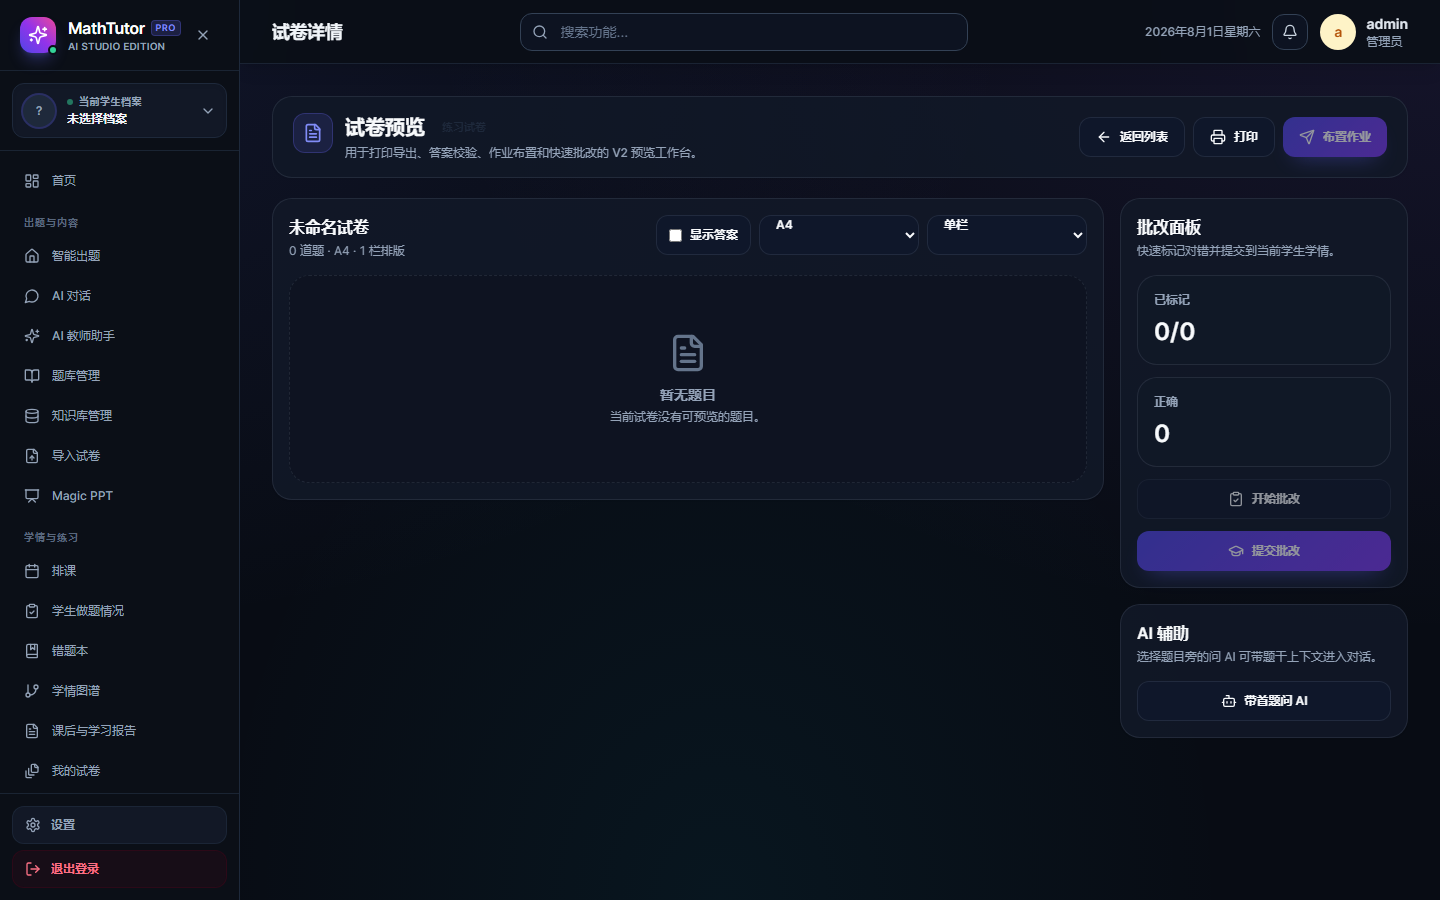
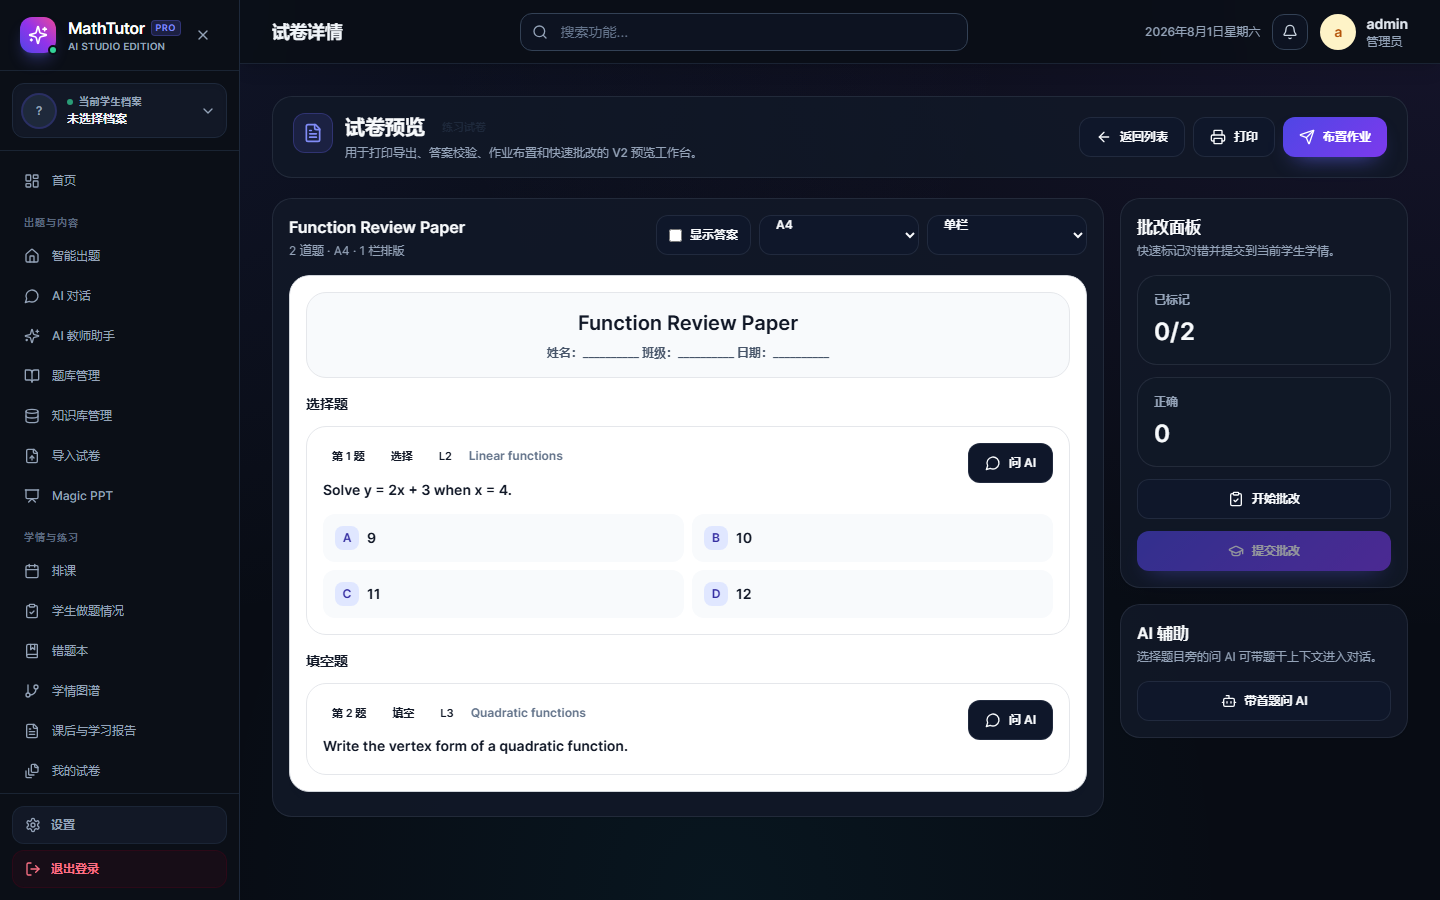
fix(ui): keep exam preview paper white across themes

diff --git a/MathTutor_System/frontend/src/pages/ExamPreview.test.jsx b/MathTutor_System/frontend/src/pages/ExamPreview.test.jsx
@@ -1,4 +1,6 @@
 import { afterEach, beforeEach, describe, expect, it, vi } from 'vitest'
+import { readFileSync } from 'node:fs'
+import { join } from 'node:path'
 import { cleanup, render, screen, waitFor } from '@testing-library/react'
 import userEvent from '@testing-library/user-event'
 import { MemoryRouter, Route, Routes } from 'react-router-dom'
@@ -23,7 +25,7 @@ vi.mock('react-router-dom', async () => {
 vi.mock('react-hot-toast', () => ({ default: toast }))
 vi.mock('../services/api', () => api)
 vi.mock('../contexts/StudentContext', () => ({
-  useStudent: () => ({ currentStudent: { id: 7, name: '学生A' } }),
+  useStudent: () => ({ currentStudent: { id: 7, name: 'Student A' } }),
 }))
 vi.mock('../components/StudentSelectorModal', () => ({
   default: ({ open }) => (open ? <div data-testid="student-selector-modal" /> : null),
@@ -34,12 +36,31 @@ vi.mock('../components/KnowledgeCard', () => ({
 
 const exam = {
   id: 12,
-  title: '函数周测',
+  title: 'Function Quiz',
   questions: [
-    { id: 1, content: '一次函数题', type: 'choice', options: ['1', '2'], answer: '2', analysis: '代入', knowledge_point: '一次函数', difficulty: 'L2' },
-    { id: 2, content: '化简题', type: 'fill', answer: '8x', analysis: '展开', knowledge_point: '整式运算', difficulty: 'L3' },
+    {
+      id: 1,
+      content: 'Linear function prompt',
+      type: 'choice',
+      options: ['1', '2'],
+      answer: '2',
+      analysis: 'Substitute',
+      knowledge_point: 'Linear functions',
+      difficulty: 'L2',
+    },
+    {
+      id: 2,
+      content: 'Simplify expression',
+      type: 'fill',
+      answer: '8x',
+      analysis: 'Expand',
+      knowledge_point: 'Algebra',
+      difficulty: 'L3',
+    },
   ],
 }
+
+const css = readFileSync(join(process.cwd(), 'src/index.css'), 'utf8')
 
 function renderRoute(initialEntries = ['/exams/12'], state) {
   return render(
@@ -64,38 +85,71 @@ afterEach(() => {
 
 describe('ExamPreview', () => {
   it('loads exam preview and toggles answers', async () => {
-    renderRoute()
+    const { container } = renderRoute()
 
-    expect((await screen.findAllByText('函数周测')).length).toBeGreaterThan(0)
-    expect(screen.getByText('一次函数题')).toBeInTheDocument()
+    expect((await screen.findAllByText('Function Quiz')).length).toBeGreaterThan(0)
+    expect(screen.getByText('Linear function prompt')).toBeInTheDocument()
 
-    await userEvent.click(screen.getByLabelText(/显示答案/))
-    expect(screen.getAllByText('答案').length).toBeGreaterThan(0)
-    expect(screen.getByText('代入')).toBeInTheDocument()
+    await userEvent.click(container.querySelector('.v2-toggle input'))
+    expect(screen.getAllByText('2').length).toBeGreaterThan(0)
+    expect(screen.getByText('Substitute')).toBeInTheDocument()
+  })
+
+  it('renders A4 preview inside a dedicated white paper surface', async () => {
+    const { container } = renderRoute()
+
+    const frame = await screen.findByTestId('exam-preview-paper-frame')
+    const paper = await screen.findByTestId('exam-preview-paper')
+    expect(frame).toHaveClass('v2-preview-paper-frame')
+    expect(paper).toHaveClass('v2-preview-paper', 'a4', 'columns-1')
+    expect(paper).not.toHaveClass('v2-section-card')
+    expect(container.querySelector('.v2-preview-paper-header')).toBeInTheDocument()
+    expect(container.querySelectorAll('.v2-preview-question')).toHaveLength(2)
+  })
+
+  it('keeps paper styling independent from dark theme panel variables', () => {
+    const paperRule = css.match(/\.v2-preview-paper\s*\{[^}]+\}/)?.[0] ?? ''
+    const frameRule = css.match(/\.v2-preview-paper-frame\s*\{\s*@apply[^}]+\}/)?.[0] ?? ''
+
+    expect(paperRule).toContain('background: #ffffff')
+    expect(paperRule).toContain('color: #111827')
+    expect(paperRule).toContain('color-scheme: light')
+    expect(paperRule).not.toContain('var(--color-bg-panel)')
+    expect(frameRule).toContain('overflow-x-auto')
+  })
+
+  it('shows empty state without rendering a paper when there are no questions', async () => {
+    api.getExam.mockResolvedValueOnce({ data: { ...exam, questions: [] } })
+    const emptyRender = renderRoute()
+
+    await waitFor(() => expect(emptyRender.container.querySelector('.v2-state')).toBeInTheDocument())
+    expect(screen.queryByTestId('exam-preview-paper')).not.toBeInTheDocument()
+    expect(emptyRender.container.querySelector('.v2-btn-primary')).toBeDisabled()
   })
 
   it('submits grading results', async () => {
-    renderRoute()
-    await screen.findAllByText('函数周测')
+    const { container } = renderRoute()
+    await screen.findByTestId('exam-preview-paper')
 
-    await userEvent.click(screen.getByRole('button', { name: /开始批改/ }))
-    await userEvent.click(screen.getAllByRole('button', { name: '对' })[0])
-    await userEvent.click(screen.getByRole('button', { name: /提交批改/ }))
+    const sideButtons = container.querySelectorAll('aside button')
+    await userEvent.click(sideButtons[0])
+    await userEvent.click(container.querySelectorAll('.v2-mark-button')[0])
+    await userEvent.click(sideButtons[1])
 
     await waitFor(() => expect(api.gradeExam).toHaveBeenCalledWith(12, expect.objectContaining({ student_id: 7 })))
-    expect(toast.success).toHaveBeenCalledWith('批改结果已提交')
+    expect(toast.success).toHaveBeenCalled()
   })
 
   it('saves compose mode preview', async () => {
-    renderRoute(['/exams/compose'], {
-      composeTitle: '临时组卷',
-      composeQuestions: [{ content: '组卷题', answer: 'A' }],
+    const { container } = renderRoute(['/exams/compose'], {
+      composeTitle: 'Compose Quiz',
+      composeQuestions: [{ content: 'Compose prompt', answer: 'A' }],
     })
 
-    expect((await screen.findAllByText('临时组卷')).length).toBeGreaterThan(0)
-    await userEvent.click(screen.getByRole('button', { name: /保存试卷/ }))
+    expect((await screen.findAllByText('Compose Quiz')).length).toBeGreaterThan(0)
+    await userEvent.click(container.querySelector('.v2-page-actions button.v2-btn-secondary'))
 
-    await waitFor(() => expect(api.saveExam).toHaveBeenCalledWith(expect.objectContaining({ title: '临时组卷' })))
+    await waitFor(() => expect(api.saveExam).toHaveBeenCalledWith(expect.objectContaining({ title: 'Compose Quiz' })))
     expect(navigate).toHaveBeenCalledWith('/exams/99', { replace: true })
   })
 

diff --git a/MathTutor_System/frontend/src/pages/ExamPreview.jsx b/MathTutor_System/frontend/src/pages/ExamPreview.jsx
@@ -341,34 +341,36 @@ export default function ExamPreview() {
             {questions.length === 0 ? (
               <EmptyState icon={FileText} title="暂无题目" description="当前试卷没有可预览的题目。" />
             ) : (
-              <div className={`v2-preview-paper ${layout.paperSize.toLowerCase()} columns-${layout.columns}`} data-show-answer={layout.showAnswer}>
-                {layout.showHeader && (
-                  <header className="v2-preview-paper-header">
-                    <h2>{title}</h2>
-                    <p>姓名：__________ 班级：__________ 日期：__________</p>
-                  </header>
-                )}
-                {Object.entries(grouped).map(([groupName, items]) => (
-                  items.length > 0 && (
-                    <section key={groupName} className="space-y-3">
-                      <h3 className="v2-preview-group-title">{groupName}题</h3>
-                      {items.map(({ question, index }) => (
-                        <QuestionPreview
-                          key={question.id ?? index}
-                          question={question}
-                          index={index}
-                          showAnswer={layout.showAnswer}
-                          grading={grading}
-                          marked={gradingResults[index]}
-                          errorType={gradingErrorTypes[index]}
-                          onMark={(isCorrect) => handleMark(index, isCorrect)}
-                          onErrorType={(errorType) => setGradingErrorTypes((prev) => ({ ...prev, [index]: errorType }))}
-                          onAskAI={() => navigate('/chat', { state: { contextQuestion: buildQuestionTextForChat(question) } })}
-                        />
-                      ))}
-                    </section>
-                  )
-                ))}
+              <div className="v2-preview-paper-frame" data-testid="exam-preview-paper-frame">
+                <div className={`v2-preview-paper ${layout.paperSize.toLowerCase()} columns-${layout.columns}`} data-show-answer={layout.showAnswer} data-testid="exam-preview-paper">
+                  {layout.showHeader && (
+                    <header className="v2-preview-paper-header">
+                      <h2>{title}</h2>
+                      <p>姓名：__________ 班级：__________ 日期：__________</p>
+                    </header>
+                  )}
+                  {Object.entries(grouped).map(([groupName, items]) => (
+                    items.length > 0 && (
+                      <section key={groupName} className="space-y-3">
+                        <h3 className="v2-preview-group-title">{groupName}题</h3>
+                        {items.map(({ question, index }) => (
+                          <QuestionPreview
+                            key={question.id ?? index}
+                            question={question}
+                            index={index}
+                            showAnswer={layout.showAnswer}
+                            grading={grading}
+                            marked={gradingResults[index]}
+                            errorType={gradingErrorTypes[index]}
+                            onMark={(isCorrect) => handleMark(index, isCorrect)}
+                            onErrorType={(errorType) => setGradingErrorTypes((prev) => ({ ...prev, [index]: errorType }))}
+                            onAskAI={() => navigate('/chat', { state: { contextQuestion: buildQuestionTextForChat(question) } })}
+                          />
+                        ))}
+                      </section>
+                    )
+                  ))}
+                </div>
               </div>
             )}
           </SectionCard>

diff --git a/MathTutor_System/frontend/src/index.css b/MathTutor_System/frontend/src/index.css
@@ -189,6 +189,20 @@ body {
       color: black;
     }
 
+    .v2-preview-paper-frame {
+      overflow: visible !important;
+      padding: 0 !important;
+    }
+
+    .v2-preview-paper,
+    .v2-preview-paper-header,
+    .v2-preview-question,
+    .v2-preview-note {
+      background: white !important;
+      color: #111827 !important;
+      box-shadow: none !important;
+    }
+
     /* 4. 隐藏非试卷元素 */
     .sidebar,
     .navbar,
@@ -1100,35 +1114,47 @@ body {
     color: var(--color-text-primary);
   }
 
+  .v2-preview-paper-frame {
+    @apply max-w-full overflow-x-auto rounded-2xl pb-2;
+  }
+
   .v2-preview-paper {
     @apply space-y-4 rounded-2xl p-4;
-    border: 1px solid var(--color-border-primary);
-    background: color-mix(in srgb, var(--color-bg-panel) 82%, transparent);
+    border: 1px solid #d1d5db;
+    background: #ffffff;
+    color: #111827;
+    color-scheme: light;
+    box-shadow: 0 18px 42px rgba(15, 23, 42, 0.18);
   }
 
   .v2-preview-paper-header {
     @apply rounded-2xl p-4 text-center;
-    border: 1px solid var(--color-border-primary);
-    background: color-mix(in srgb, var(--color-bg-card) 84%, transparent);
+    border: 1px solid #e5e7eb;
+    background: #f8fafc;
   }
 
   .v2-preview-paper-header h2 {
     @apply text-xl font-black;
-    color: var(--color-text-primary);
+    color: #111827;
   }
 
   .v2-preview-paper-header p {
     @apply mt-2 text-xs font-semibold;
-    color: var(--color-text-secondary);
+    color: #475569;
   }
 
   .v2-preview-group-title {
     @apply text-sm font-black;
-    color: var(--color-text-primary);
+    color: #111827;
   }
 
   .v2-preview-question,
-  .v2-preview-note,
+  .v2-preview-note {
+    @apply rounded-2xl;
+    border: 1px solid #e5e7eb;
+    background: #ffffff;
+  }
+
   .v2-preview-side-stat {
     @apply rounded-2xl;
     border: 1px solid var(--color-border-primary);
@@ -1140,28 +1166,31 @@ body {
   }
 
   .v2-preview-question.correct {
-    border-color: color-mix(in srgb, #22c55e 45%, var(--color-border-primary));
+    border-color: #22c55e;
+    background: #f0fdf4;
   }
 
   .v2-preview-question.wrong {
-    border-color: color-mix(in srgb, #f43f5e 45%, var(--color-border-primary));
+    border-color: #f43f5e;
+    background: #fff1f2;
   }
 
   .v2-preview-option {
     @apply flex items-start gap-2 rounded-xl p-3;
-    background: color-mix(in srgb, var(--color-bg-panel) 75%, transparent);
+    background: #f8fafc;
   }
 
   .v2-preview-option span {
     @apply flex h-6 w-6 shrink-0 items-center justify-center rounded-lg text-xs font-black;
-    background: color-mix(in srgb, var(--color-primary-500) 14%, transparent);
-    color: var(--color-primary-300);
+    background: #e0e7ff;
+    color: #3730a3;
   }
 
+  .v2-preview-paper .v2-preview-question p,
   .v2-preview-option p,
   .v2-preview-note p {
     @apply min-w-0 whitespace-pre-wrap text-sm font-semibold leading-6;
-    color: var(--color-text-primary);
+    color: #111827;
   }
 
   .v2-preview-note {
@@ -1172,6 +1201,11 @@ body {
   .v2-preview-side-stat span {
     @apply block text-xs font-black;
     color: var(--color-text-secondary);
+  }
+
+  .v2-preview-paper .v2-preview-note span,
+  .v2-preview-paper .text-slate-400 {
+    color: #64748b;
   }
 
   .v2-preview-side-stat {

diff --git a/MathTutor_System/docs/frontend-ui-v2-phase2-verification.md b/MathTutor_System/docs/frontend-ui-v2-phase2-verification.md
@@ -342,6 +342,27 @@ Result:
 - Answer/analysis notes rendered: 6
 - Remaining adaptation: preview activity/sidebar data is limited to existing exam, grading, knowledge-card, and route-navigation workflows.
 
+Final A4 paper fix recheck:
+
+- Original blocker: `.v2-preview-paper` used theme panel/card variables, so dark theme and mobile rendered the preview as a dark themed card instead of a white A4 paper surface.
+- Root cause: the paper body, paper header, question cards, options, and note blocks inherited `var(--color-bg-panel)`, `var(--color-bg-card)`, and dark text utilities intended for the surrounding workbench.
+- Fix files: `MathTutor_System/frontend/src/pages/ExamPreview.jsx`, `MathTutor_System/frontend/src/pages/ExamPreview.test.jsx`, and `MathTutor_System/frontend/src/index.css`.
+- Paper semantics: `.v2-preview-paper` now forces `background: #ffffff`, `color: #111827`, and `color-scheme: light`; the surrounding workbench still follows dark/light/auto theme.
+- Mobile behavior: paper is wrapped by `.v2-preview-paper-frame`, which provides local horizontal containment without causing global page overflow.
+- Print behavior: print media keeps the V2 paper/header/question/note blocks white with dark text and removes paper shadow.
+- Dark desktop computed style: `backgroundColor=rgb(255, 255, 255)`, `color=rgb(17, 24, 39)`, `colorScheme=light`, `scrollWidth=1440`, `clientWidth=1440`.
+- Light desktop computed style: `backgroundColor=rgb(255, 255, 255)`, `color=rgb(17, 24, 39)`, `colorScheme=light`, `scrollWidth=1440`, `clientWidth=1440`.
+- Dark mobile computed style: `backgroundColor=rgb(255, 255, 255)`, `color=rgb(17, 24, 39)`, `colorScheme=light`, `scrollWidth=390`, `clientWidth=390`.
+- Auto theme computed style: `backgroundColor=rgb(255, 255, 255)`, `color=rgb(17, 24, 39)`, `colorScheme=light`, `scrollWidth=1440`, `clientWidth=1440`.
+- Console errors: 0
+- Request failures: 0
+- Global horizontal overflow: 0
+- Replaced screenshots:
+  - `MathTutor_System/docs/ui-verification/ui-v2-phase2/exam-preview-dark-desktop-1440x900.png`
+  - `MathTutor_System/docs/ui-verification/ui-v2-phase2/exam-preview-light-desktop-1440x900.png`
+  - `MathTutor_System/docs/ui-verification/ui-v2-phase2/exam-preview-dark-mobile-390x844.png`
+- Final status: MATCHED_WITH_ADAPTATION. The A4 paper uses forced print-white semantics, the surrounding workspace remains theme-aware, and mobile uses local paper containment instead of changing the whole page.
+
 ### StudentMgmt
 
 Screenshots:

diff --git a/MathTutor_System/docs/frontend-ui-v2-phase2-reference-analysis.md b/MathTutor_System/docs/frontend-ui-v2-phase2-reference-analysis.md
@@ -84,7 +84,7 @@ KnowledgeBase was rebuilt around the reference knowledge-library cards, document
 
 ImportExam was rebuilt around the reference stepper and ingestion workspace. It keeps existing Word/PDF parse, batch save, collect, and analysis APIs; unsupported image/OCR import is shown only as a disabled affordance. Browser screenshots were captured for dark desktop, light desktop, and mobile.
 
-ExamList was rebuilt as a saved-content asset console with metrics, search/type filtering, assignment modal entry, delete, preview, and import/generation links. ExamPreview was rebuilt as a print/preview/grading workspace with existing save, assign, print, quick-grade, knowledge-card, AI-chat, and graph-navigation flows. Browser screenshots were captured for both pages in dark desktop, light desktop, and mobile.
+ExamList was rebuilt as a saved-content asset console with metrics, search/type filtering, assignment modal entry, delete, preview, and import/generation links. ExamPreview was rebuilt as a print/preview/grading workspace with existing save, assign, print, quick-grade, knowledge-card, AI-chat, and graph-navigation flows. The ExamPreview A4 paper surface is intentionally forced to white print semantics across dark, light, auto, and mobile contexts while the surrounding workbench remains theme-aware. Browser screenshots were captured for both pages in dark desktop, light desktop, and mobile.
 
 MistakeBook was rebuilt around reference metrics, tabs, responsive mistake cards, manual add modal, review/master/delete, AI-chat handoff, homework insertion, and review-practice generation. It uses only existing mistake, exam, and generation APIs. Browser screenshots were captured for dark desktop, light desktop, and mobile.
 
